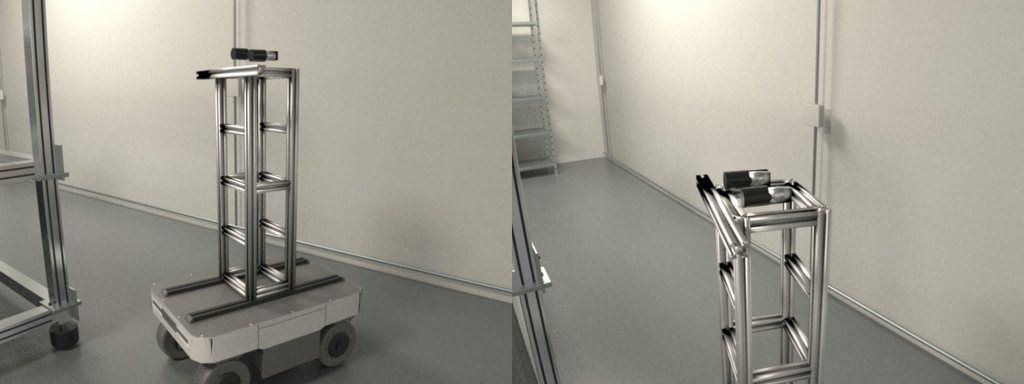
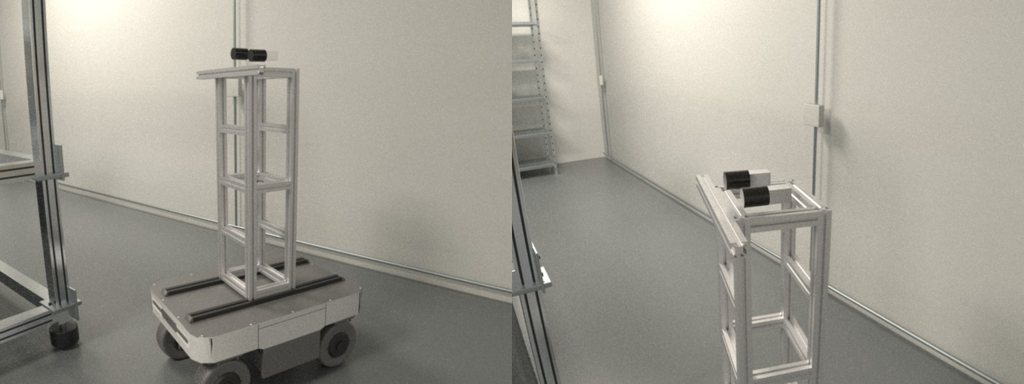
hw: auto exposure on by default (a camera's ExposureControl: metered each frame, damped, time then gain); flat-sided body shapes take their faces' normals
A PLY without normals got smooth ones: boxes and T-slot profiles shaded as round tubes with black sides. Boxes and profiles now set face_normals; cylinders keep their smooth sides.

Changed region(s): [[0.1875, 0.125, 0.3125, 0.7812], [0.6562, 0.4375, 0.8125, 1.0]]

diff --git a/opticalnav_sim/hw/sensor.py b/opticalnav_sim/hw/sensor.py
@@ -6,8 +6,8 @@ saturation, the analogue-to-digital converter (EMVA 1288's linear camera model).
     image = isp.process(raw)
 
 The simulator's radiance is not in physical units, so one scale is free: ``RESPONSIVITY``, the electrons a second a
-plain 3.45 um pixel behind an f/4 lens collects from radiance 1. ``auto_exposure`` picks the exposure time as a camera
-would; exposures of two cameras of one rig are then in the right ratio (pixel size, f-number, sensitivity).
+plain 3.45 um pixel behind an f/4 lens collects from radiance 1. Auto exposure (``ExposureControl``, on by default)
+sets the exposure time as a camera would; exposures of two cameras of one rig are then in the right ratio (pixel size, f-number, sensitivity).
 """
 from __future__ import annotations
 
@@ -135,26 +135,73 @@ def irradiance(frame, spec, vignette: bool = True) -> np.ndarray:
     return np.maximum(light, 0.0)
 
 
-def auto_exposure(frame, spec, target: float = 0.6, percentile: float = 99.0, limits: tuple = (2e-5, 0.1)) -> float:
-    """The exposure time that puts the ``percentile`` brightest pixel at ``target`` of saturation (of the most
-    sensitive readout's range times 8, on an HDR sensor: its highlights go to the later readouts)."""
-    sensor = spec.sensor
-    level = float(np.percentile(irradiance(frame, spec), percentile)) * responsivity(spec)
-    well = sensor.readouts[0][1] * 8.0 if sensor.readouts else sensor.full_well_e
-    return float(np.clip(target * well / max(level, 1e-12), *limits))
+@dataclass
+class ExposureControl:
+    """A camera's exposure time and gain, and its auto exposure (a machine vision camera's ExposureAuto and GainAuto
+    set to Continuous: on by default here too).
+
+    Each frame is metered (the mean of the image as a share of the sensor's range) and the next frame's exposure moves
+    towards the one that would put that mean at ``target``, by ``1 - damping`` of the way in stops: a camera driven
+    from a bright room into a dark one takes a few frames to follow. The time is used first, up to its limit, then
+    gain. ``auto = False`` holds ``exposure_s`` and ``gain_db`` as set."""
+    auto: bool = True
+    exposure_s: float | None = None      # None: not started (the first frame starts settled, as a running camera is)
+    gain_db: float = 0.0
+    target: float = 0.27                 # LUCID's default target brightness, 70 of 255
+    damping: float = 0.5
+    exposure_limits: tuple = (2.0e-5, 0.03)
+    gain_limits: tuple = (0.0, 24.0)
+
+    def level(self, frame, spec, exposure_s: float, gain_db: float) -> float:
+        """What the meter reads: the mean of the image at this setting (clipped pixels count as full)."""
+        well = spec.sensor.readouts[0][1] * 8.0 if spec.sensor.readouts else spec.sensor.full_well_e
+        signal = irradiance(frame, spec) * responsivity(spec) * exposure_s * 10.0 ** (gain_db / 20.0) / well
+        return float(np.minimum(signal, 1.0).mean())
+
+    def _towards(self, frame, spec, exposure_s: float, gain_db: float, share: float) -> tuple[float, float]:
+        level = max(self.level(frame, spec, exposure_s, gain_db), 1e-9)
+        total = exposure_s * 10.0 ** (gain_db / 20.0) * (self.target / level) ** share   # time x gain: the sensitivity
+        low_gain = 10.0 ** (self.gain_limits[0] / 20.0)
+        t = float(np.clip(total / low_gain, *self.exposure_limits))
+        return t, float(np.clip(20.0 * math.log10(max(total / t, 1e-12)), *self.gain_limits))
+
+    def settle(self, frame, spec) -> tuple[float, float]:
+        """The setting the auto exposure ends at on this frame (as after many frames of the same view)."""
+        t, g = self.exposure_s or 0.005, self.gain_db
+        for _ in range(30):  # clipped highlights make it more than one step
+            t, g = self._towards(frame, spec, t, g, 1.0)
+        return t, g
+
+    def next(self, frame, spec) -> tuple[float, float]:
+        """(exposure, gain) to take ``frame`` with; the setting then moves on for the frame after it."""
+        if not self.auto:
+            if self.exposure_s is None:
+                self.exposure_s = 0.005
+            return self.exposure_s, self.gain_db
+        if self.exposure_s is None:
+            self.exposure_s, self.gain_db = self.settle(frame, spec)
+        used = (self.exposure_s, self.gain_db)
+        self.exposure_s, self.gain_db = self._towards(frame, spec, *used, 1.0 - self.damping)
+        return used
+
+
+def auto_exposure(frame, spec, **settings) -> float:
+    """The exposure time a camera's auto exposure settles at on ``frame`` (ExposureControl's ``settings``)."""
+    return ExposureControl(**settings).settle(frame, spec)[0]
 
 
 def expose(frame, spec, exposure_s: float | None = None, gain_db: float = 0.0, noise: bool = True, vignette: bool = True,
            seed: int | None = 0, pixels_per_sample: float = 1.0) -> Raw:
     """The raw frame a camera delivers of ``frame`` (a SimWorld render at the camera's image size).
 
-    ``exposure_s``: None picks it (``auto_exposure``). ``gain_db``: analogue gain. ``noise`` off gives the mean
+    ``exposure_s``: None is a settled auto exposure (ExposureControl). ``gain_db``: analogue gain. ``noise`` off gives the mean
     (still clipped and quantized). ``pixels_per_sample``: how many sensor pixels are averaged into one rendered pixel
     (binning: 4 for 2x2); the noise of the mean shrinks accordingly. The mosaic is laid over the rendered image: at a
     reduced render size it is a sensor of that size, not a crop of the real one."""
     sensor = spec.sensor
-    if exposure_s is None:
-        exposure_s = auto_exposure(frame, spec)
+    if exposure_s is None:  # a settled auto exposure, gain included
+        exposure_s, auto_gain = ExposureControl().settle(frame, spec)
+        gain_db = gain_db + auto_gain
     rng = np.random.default_rng(seed)
     electrons = irradiance(frame, spec, vignette) * responsivity(spec) * float(exposure_s)
     n = float(pixels_per_sample)

diff --git a/tests/test_hw.py b/tests/test_hw.py
@@ -303,6 +303,9 @@ def test_rig_calibration_places_the_cameras(tmp_path):
     assert np.abs(on_face[:, 1]).min() >= 0.004 - 1e-9  # nothing on the face inside the 8 mm slot
     model = bodies.build_model("mast", {"links": {"mast": [{"shape": "profile", "size": [0.03, 0.8], "material": list(rigs.ALUMINIUM)}]}}, tmp_path)
     assert 'value="Al"' in model["links"]["mast"] and "blendbsdf" in model["links"]["mast"]
+    assert 'name="face_normals" value="true"' in model["links"]["mast"]  # flat faces: not the smooth normals of a bare PLY
+    wheel = bodies.build_model("w", {"links": {"w": [{"shape": "cylinder", "size": [0.1, 0.05]}]}}, tmp_path)
+    assert "face_normals" not in wheel["links"]["w"]                      # a wheel's side stays round
 
 
 def _frame(spec, s0, s1=None, s2=None, pose=None):
@@ -360,8 +363,43 @@ def test_sensor_follows_the_emva_linear_model():
     assert np.ptp(corrected[8:-8, 8:-8]) < 0.01  # the ISP's shading correction undoes it
     grad = np.repeat(np.linspace(0.01, 1.0, k.width)[None, :, None], k.height, 0).repeat(3, 2)
     t = sensor.auto_exposure(_frame(spec, grad), spec)
-    raw = sensor.expose(_frame(spec, grad), spec, t, noise=False)
-    assert 0.4 < np.percentile(raw.linear(), 99.0) < 0.7 and np.mean(raw.data >= 4095) == 0.0
+    raw = sensor.expose(_frame(spec, grad), spec, t, noise=False, vignette=True)
+    assert abs(raw.linear().mean() - 0.27) < 0.01  # the meter's target: the image's mean at 0.27 of the range
+    assert np.array_equal(sensor.expose(_frame(spec, grad), spec, noise=False).data, raw.data)  # no exposure given: that one
+
+
+def test_auto_exposure_follows_the_scene_over_frames():
+    """On by default; a camera carried from a bright view to a dark one takes a few frames, time first, then gain."""
+    spec = cameras.LucidTRI032S()
+    k = spec.intrinsics()
+    world = hw.World()
+    cam = world.spawn(spec, at=Transform((0.0, 0.0, 1.0)))
+    ae = cam.state.exposure
+    assert ae.auto and ae.exposure_s is None and world.spawn(spec, at=Transform()).state.exposure is not ae
+    bright, dark = (_frame(spec, np.full((k.height, k.width, 3), v)) for v in (0.5, 0.02))
+    t0, g0 = ae.next(bright, spec)
+    assert abs(ae.level(bright, spec, t0, g0) - ae.target) < 1e-3 and g0 == 0.0  # the first frame: already settled
+    assert ae.next(bright, spec) == (t0, g0)                                      # and it stays there
+    seen = [ae.next(dark, spec) for _ in range(12)]
+    levels = [ae.level(dark, spec, t, g) for t, g in seen]
+    assert seen[0] == (t0, g0) and levels[0] < 0.05 * ae.target        # the frame after the change is still at the old setting
+    assert all(b >= a for a, b in zip(levels, levels[1:])) and levels[2] < 0.5 * ae.target  # it climbs, not jumps
+    assert abs(levels[-1] - ae.target) < 0.02
+    t_end, g_end = seen[-1]
+    assert t_end == ae.exposure_limits[1] and 0.0 < g_end <= ae.gain_limits[1]  # the time ran out at its limit: gain made up the rest
+    night = _frame(spec, np.full((k.height, k.width, 3), 1e-6))
+    for _ in range(30):
+        ae.next(night, spec)
+    assert (ae.exposure_s, ae.gain_db) == (ae.exposure_limits[1], ae.gain_limits[1])  # both at their limits, no further
+    # manual: what is set is what is used
+    ae.auto, ae.exposure_s, ae.gain_db = False, 0.002, 3.0
+    assert ae.next(bright, spec) == (0.002, 3.0) and ae.next(dark, spec) == (0.002, 3.0)
+    # an HDR sensor meters its most sensitive readouts: the highlights are left to the others
+    hdr = cameras.LucidTDR054S()
+    kh = hdr.intrinsics()
+    f = _frame(hdr, np.full((kh.height, kh.width, 3), 0.3))
+    raw = sensor.expose(f, hdr, vignette=False, noise=False)
+    assert 0.0005 < raw.linear().mean() < 0.05 and np.mean(raw.data >= raw.white) == 0.0
 
 
 def test_hdr_sensor_is_linear_across_its_readouts():

diff --git a/opticalnav_sim/hw/sim.py b/opticalnav_sim/hw/sim.py
@@ -145,14 +145,20 @@ class SimWorld(World):
                      lens(out.get("s1")), lens(out.get("s2")), lens(out.get("s3")), lens(out.get("depth")),
                      dict(self.client.last_timing))
 
-    def capture(self, camera: Actor, exposure_s: float | None = None, gain_db: float = 0.0, noise: bool = True,
+    def capture(self, camera: Actor, exposure_s: float | None = None, gain_db: float | None = None, noise: bool = True,
                 spp: int | None = None, scale: float | None = None, binning: bool = False, **options) -> tuple:
         """Render a camera and expose its sensor: ``(raw, frame)``. ``raw`` (hw.sensor.Raw) is what the camera delivers:
-        its mosaic, noise, saturation and bit depth; ``hw.isp.process(raw)`` is the image. ``exposure_s`` None: the
-        camera's auto exposure. ``binning``: the rendered pixel is the mean of the sensor pixels it covers (their
-        noise averaged), instead of one pixel of a smaller sensor. ``frame`` keeps the Stokes images the raw was made
-        from (the ground truth)."""
+        its mosaic, noise, saturation and bit depth; ``hw.isp.process(raw)`` is the image.
+
+        The exposure is the camera's own (``camera.state.exposure``: auto exposure, on by default, which follows the
+        scene over the frames captured); ``exposure_s`` / ``gain_db`` given here take this one frame with those
+        instead and leave the camera's setting alone. ``binning``: the rendered pixel is the mean of the sensor pixels
+        it covers (their noise averaged), instead of one pixel of a smaller sensor. ``frame`` keeps the Stokes images
+        the raw was made from (the ground truth)."""
         frame = self.render(camera, spp, scale, **options)
+        if exposure_s is None:
+            exposure_s, auto_gain = camera.state.exposure.next(frame, camera.spec)
+            gain_db = auto_gain if gain_db is None else gain_db
         covered = (camera.spec.sensor.width / frame.intrinsics.width) ** 2 if binning else 1.0
-        return sensor_model.expose(frame, camera.spec, exposure_s, gain_db, noise, seed=self.seed,
+        return sensor_model.expose(frame, camera.spec, exposure_s, gain_db or 0.0, noise, seed=self.seed,
                                    pixels_per_sample=covered), frame

diff --git a/opticalnav_sim/bodies.py b/opticalnav_sim/bodies.py
@@ -158,7 +158,11 @@ def build_model(name: str, descriptor: dict, cache: Path | None = None) -> dict:
             file = folder / f"{safe(link)}_{i}.ply"
             if not file.is_file():
                 write_ply(file, v, f)
-            shapes += f'    <shape type="ply">\n      <string name="filename" value="{file}" />\n{mat}    </shape>\n'
+            # A file without normals gets smooth ones (each vertex the mean of its faces): right for a cylinder's side
+            # (its caps have vertices of their own), wrong for flat-sided shapes, whose faces then shade as if bent
+            # and turn black where the bent normal faces away. Those take their faces' normals.
+            flat = '' if vis["shape"] == "cylinder" else '      <boolean name="face_normals" value="true" />\n'
+            shapes += f'    <shape type="ply">\n      <string name="filename" value="{file}" />\n{flat}{mat}    </shape>\n'
         links[link] = f'  <shape type="shapegroup" id="{GROUP_PREFIX}{safe(name)}_{key}__{safe(link)}">\n{shapes}  </shape>\n'
     return {"name": name, "key": key, "links": links}
 

diff --git a/opticalnav_sim/hw/cameras.py b/opticalnav_sim/hw/cameras.py
@@ -100,6 +100,11 @@ IMX250MYR = SensorSpec("Sony IMX250MYR", 2448, 2048, 3.45, 12, "polar_RGGB", "gl
 
 
 @dataclass
+class CameraState:
+    exposure: object
+
+
+@dataclass
 class CameraSpec(Spec):
     kind = "camera"
     sensor: SensorSpec = IMX265
@@ -136,6 +141,12 @@ class CameraSpec(Spec):
 
     def intrinsics(self, scale: float | None = None) -> Intrinsics:
         return self.full_intrinsics().scaled(*self.image_size(scale))
+
+    def make_state(self):
+        """A camera's settings that change while it runs: ``state.exposure`` (hw.sensor.ExposureControl: auto exposure
+        on; set ``auto = False`` and ``exposure_s`` / ``gain_db`` for a fixed exposure)."""
+        from .sensor import ExposureControl
+        return CameraState(ExposureControl())
 
     def link_frames(self, state) -> dict:
         """``camera``: x along the optical axis, origin at the optical centre. ``optical``: OpenCV's frame there."""

diff --git a/README.md b/README.md
@@ -841,7 +841,8 @@ image = hw.isp.process(raw)                       # the camera's 8-bit image
 * **Another camera or lens** is a `SensorSpec` and a `LensSpec` (or a calibration) in a `CameraSpec`; nothing else knows the models.
 * **Lens.** OpenCV's model with up to 12 coefficients: radial, rational, tangential, thin prism (`hw.optics`: `project`, `rays`, checked against `cv2.projectPoints` to 1e-9 px; the inverse is Newton's method, OpenCV's fixed-point iteration diverges at the edge of some rational calibrations). The server renders a pinhole wide enough for every ray of the sensor and `world.render` resamples it into the lens's image (`render_plan`, `remap`). The default lens model is fitted to the datasheet: effective focal length 6.14 mm and k1 = -0.104 reproduce its angle of view on 2/3" (74.7 x 58.1 degrees) and agree with its TV distortion (-2.85 %: k1 = -0.106).
 * **Bodies on the server.** A spec with `visuals()` is a body: `POST /v1/bodies` registers its links (boxes, cylinders, mesh files, each with a material: plastic, metal, rubber, mapped to `pplastic` / `roughconductor` like the `.blend` converter's), and a view places it with `"bodies": [{"id", "model", "links": {link: 4x4}}]`. In the scene a link is a `shapegroup` and each body draws it through an `instance`; a move writes the instances' transforms, so only the scene's top-level acceleration structure is rebuilt and a frozen render replays. Measured (RTX 5090, 512 x 384, 16 spp): 15 links moved in 3.4 ms a frame on a 437k-triangle scene (16.6 ms for 60), frames as fast as with nothing moving, no recording after the first, and the moved scene's image equal to a scene loaded with the links there (difference 0.997 of the noise between two seeds, at 1024 spp). A scene with bodies is its own resident scene: the first view that brings a new set of body models loads it. A camera's image of 720 x 464 (a 792 x 514 pinhole, 16 spp) takes 0.26 s while driving, 0.17 s of it the server's render; each new image size records once (20 to 30 s).
-* **Sensor model** (`hw.sensor`). `raw, frame = world.capture(cam)` renders the camera and exposes its sensor: the colour mosaic (and, on a polarization sensor, each pixel's polarizer, from the render's Stokes images turned into the sensor's own frame), the lens's fall-off, photoelectrons, shot noise, the well's capacity, read noise, gain, and the converter's bits. `raw.data` is what the camera delivers: `uint16` BayerRG12 for the TRI032S, `uint32` BayerRG24 for the TDR054S (one linear value from its four readouts), a 4 x 4 colour-polarization mosaic for the FLIR camera. The numbers are the makers' EMVA 1288 ones (TRI032S: 10 565 e- and 2.11 e-; TDR054S: 0.54 e- noise floor, 123.6 dB, 50.8 dB best SNR, reproduced by the model; how its four readouts share that is an assumption). Checked: a flat field's variance is the linear model's (581 against 581 counts^2 at 4000 e-), the HDR value is linear from 1 e- to 800 000 e- with the expected dip in SNR where the small photodiode takes over, a noise-free polarization mosaic gives back a smooth Stokes field to 0.002 in DoLP and 0.3 degrees in AoLP. `exposure_s=None` is the camera's auto exposure; the simulator's radiance has no physical unit, so one scale (`sensor.RESPONSIVITY`) is free.
+* **Sensor model** (`hw.sensor`). `raw, frame = world.capture(cam)` renders the camera and exposes its sensor: the colour mosaic (and, on a polarization sensor, each pixel's polarizer, from the render's Stokes images turned into the sensor's own frame), the lens's fall-off, photoelectrons, shot noise, the well's capacity, read noise, gain, and the converter's bits. `raw.data` is what the camera delivers: `uint16` BayerRG12 for the TRI032S, `uint32` BayerRG24 for the TDR054S (one linear value from its four readouts), a 4 x 4 colour-polarization mosaic for the FLIR camera. The numbers are the makers' EMVA 1288 ones (TRI032S: 10 565 e- and 2.11 e-; TDR054S: 0.54 e- noise floor, 123.6 dB, 50.8 dB best SNR, reproduced by the model; how its four readouts share that is an assumption). Checked: a flat field's variance is the linear model's (581 against 581 counts^2 at 4000 e-), the HDR value is linear from 1 e- to 800 000 e- with the expected dip in SNR where the small photodiode takes over, a noise-free polarization mosaic gives back a smooth Stokes field to 0.002 in DoLP and 0.3 degrees in AoLP. The simulator's radiance has no physical unit, so one scale (`sensor.RESPONSIVITY`) is free.
+* **Auto exposure is on by default.** Each camera actor carries its exposure (`cam.state.exposure`, an `ExposureControl`): every captured frame is metered (the image's mean against a target of 0.27 of the range, LUCID's default) and the next frame's setting moves half of the way there in stops, the time first up to its limit (30 ms), then gain (up to 24 dB): a camera driven from a bright room into a dark one takes a few frames to follow, as the real one does; the first frame starts settled. `cam.state.exposure.auto = False` with `exposure_s` and `gain_db` holds a fixed exposure; `world.capture(cam, exposure_s=...)` takes one frame at another without touching the camera's setting.
 * **ISP** (`hw.isp`). `isp.process(raw)` is the 8-bit image: black level, lens shading, demosaic (Malvar-He-Cutler or bilinear), white balance (gains or gray world), colour matrix, exposure, tone curve (sRGB, or Reinhard's operator for the 24-bit sensor), with saturated areas kept neutral. `isp.polarization(raw)` gives a polarization sensor's `s0`, `s1`, `s2`, `dolp`, `aolp_deg` at half size. The same code takes a real camera's raw: the rig's recorded BayerRG12 and BayerRG24 frames go through it unchanged.
 * **A polarization sensor is not the render's Stokes image.** On a rendered scene the FLIR camera's DoLP differs from the render's by 0.015 where the light is even and by 0.21 at edges (the four angles of a block look at four different places: the instantaneous field of view error of every such sensor), almost none of it from sensor noise. Rendered at a quarter of the sensor's resolution the blocks are four times larger than the real ones, so the effect is overstated at the default `render_scale`.
 * **Not there yet** (the plan's later milestones): fitting the sensor model to the rig's recordings (absolute sensitivity, colour response, the real cameras' tone mapping); rolling shutter and motion blur; ground following and collisions; bodies in the raster preview and in Cycles; a ROS 2 bridge. A camera sees through its own housing only because the housing is drawn behind its optical centre: a part of the robot in front of the lens is in the image, as on the real robot.

diff --git a/docs/hardware_platform_plan.md b/docs/hardware_platform_plan.md
@@ -48,6 +48,12 @@
   사진의 흰 도장과 다르게 보인다. 자산의 값을 그대로 썼다.
 - 마스트는 30 mm T슬롯 압출재(코어, 모서리 웨브, 홈을 남기는 립)로 쌓는다. 재질은 측정 알루미늄 위에 얇은 산화층을 둔 무광이다.
   기둥 4개, 앞뒤 가로대 5단, 옆 3단, 상단 카메라 바. 사진을 보고 잡은 배치이고 실측 치수는 아니다.
+- **평면 도형은 면 법선을 써야 한다**: 법선 없는 PLY에 Mitsuba가 꼭짓점 평균 법선을 만들어, 상자와 프로파일이 둥근 관처럼 보이고
+  옆면이 검게 나왔다. 상자와 프로파일은 `face_normals`를 켠다(원기둥 옆면은 그대로 부드럽게).
+
+자동 노출(2026-11-24 사용자 지시: 기본은 자동 노출 켬):
+- 카메라 액터가 노출 상태를 가진다(`cam.state.exposure`). 프레임마다 영상 평균을 재서 목표(범위의 0.27)로 가도록 다음 프레임의
+  노출을 절반씩(스톱 기준) 옮긴다. 시간을 먼저 쓰고(최대 30 ms), 모자라면 게인(최대 24 dB). 첫 프레임은 수렴한 상태에서 시작한다.
 
 구현하며 알게 된 것:
 - **렌즈 모델**: 데이터시트의 2/3" 화각(74.7° × 58.1°)은 유효 초점거리 6.14 mm, k1 = −0.104인 방사 1항 모델로 재현된다(74.67° × 58.08°).
